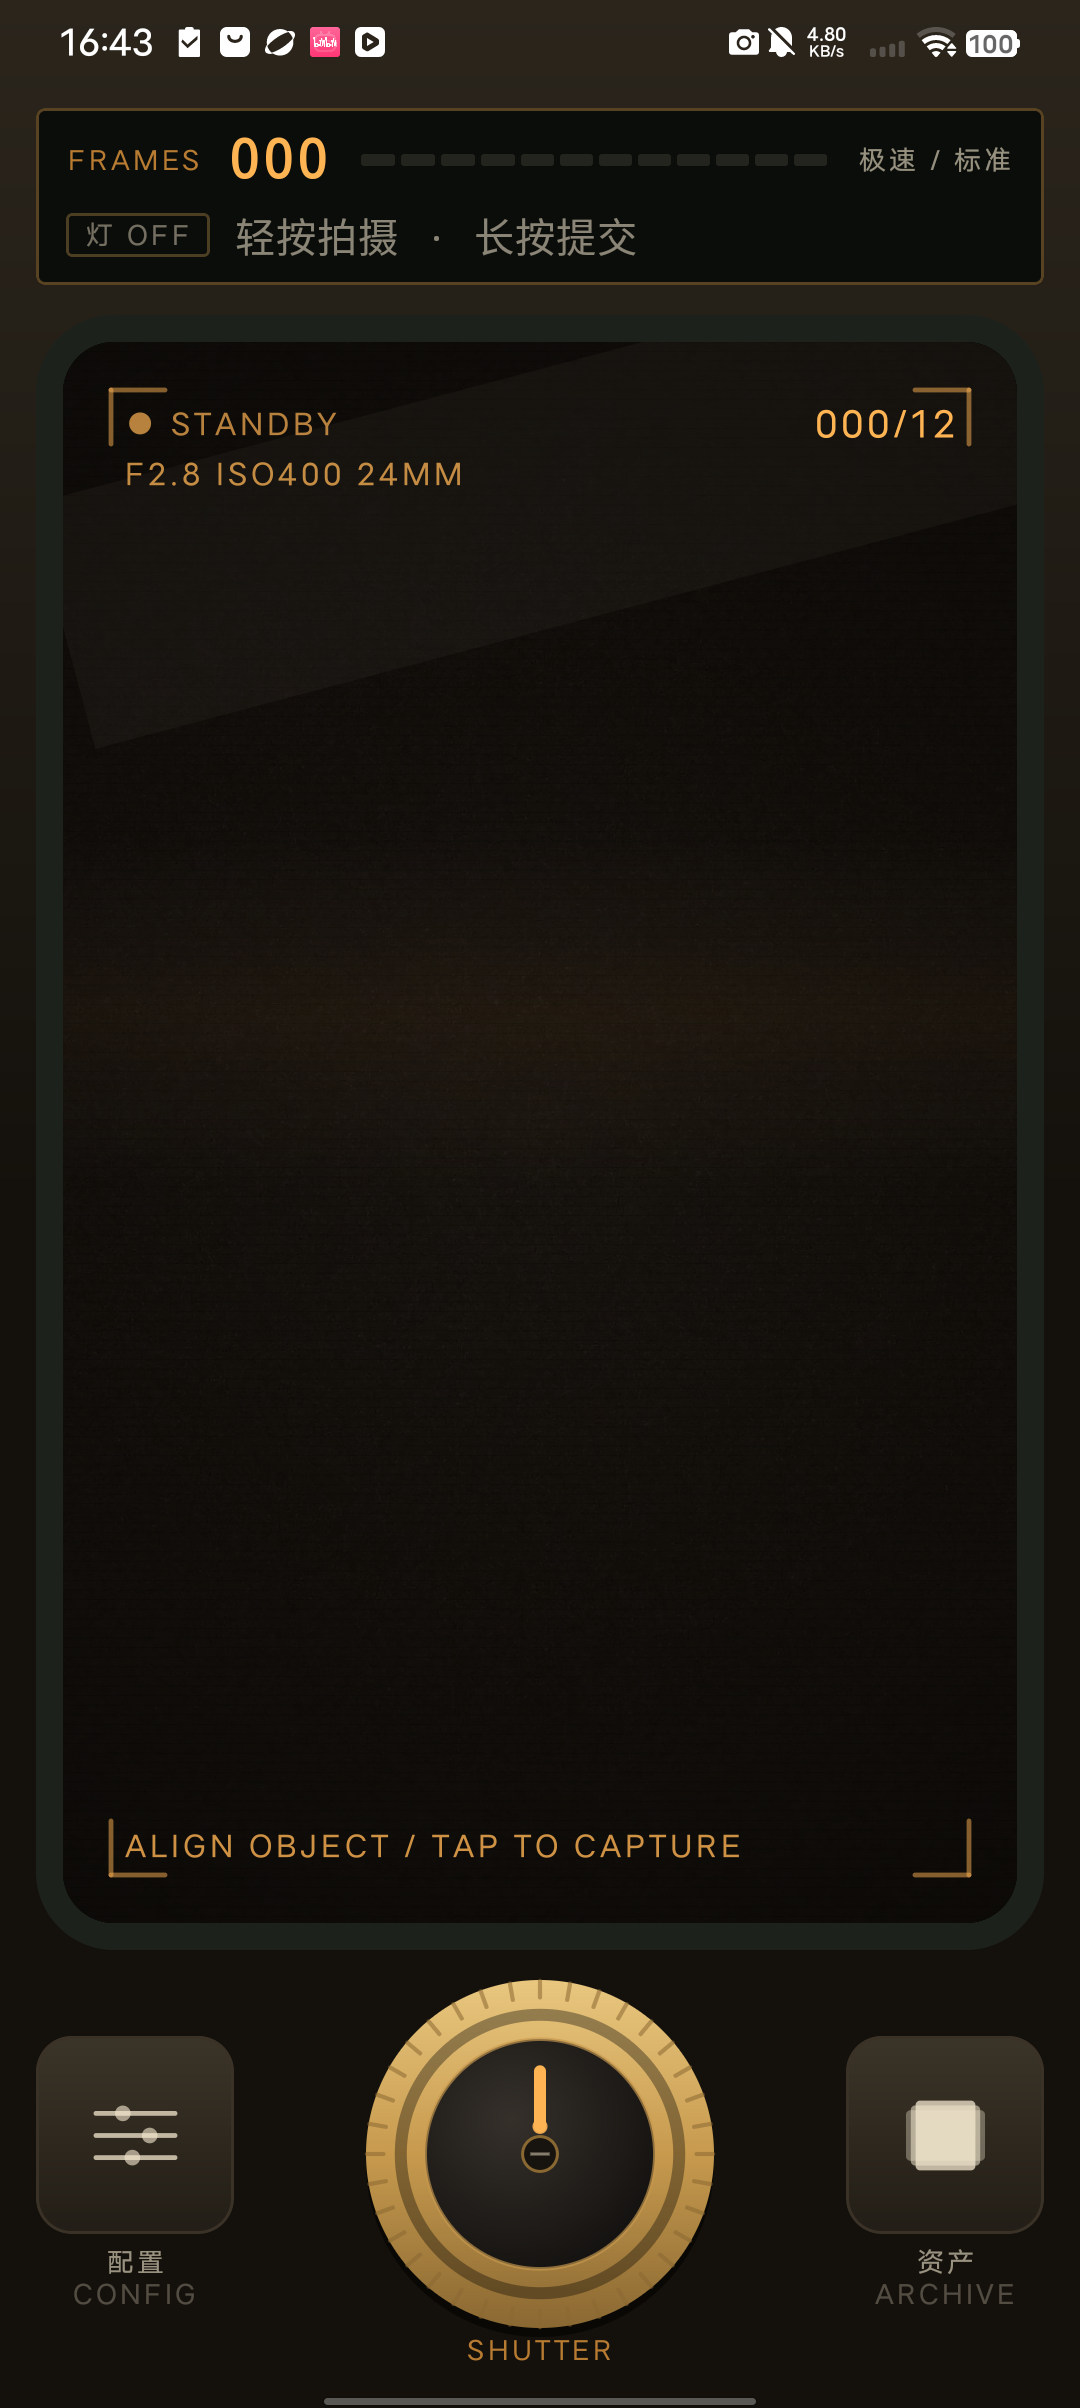
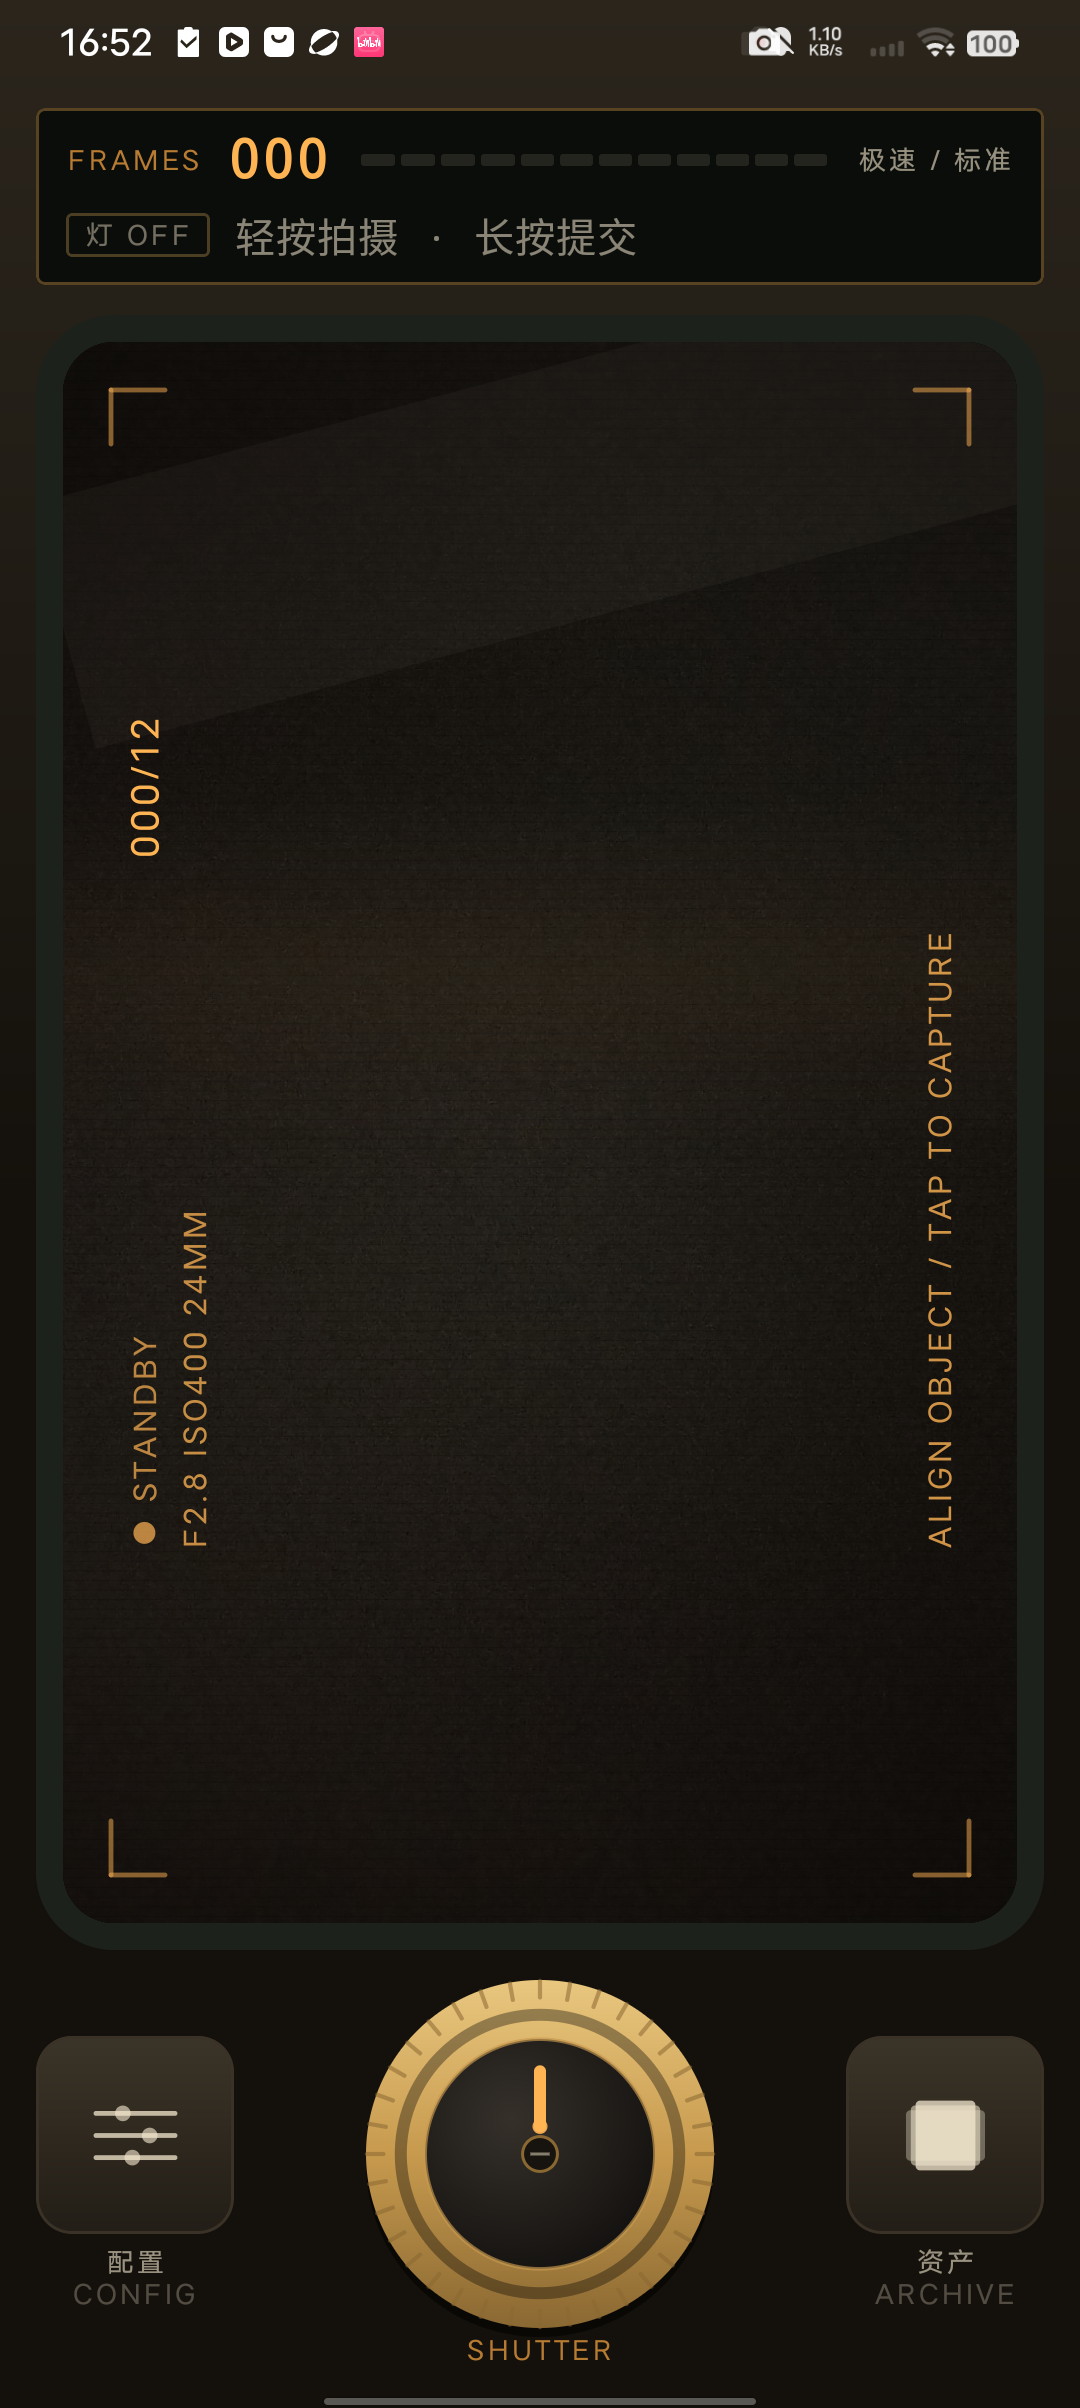
feat: 横屏改为机身不动、HUD 随姿态旋转
- 应用锁竖屏，横过来时整机布局与尺寸完全不变
- 重力传感器驱动取景 HUD 吸附到 0/90/180/270，读数始终朝上
- 移除横屏重排逻辑

diff --git a/app/src/main/java/com/shiwu/scan3d/ui/device/CrtScreen.kt b/app/src/main/java/com/shiwu/scan3d/ui/device/CrtScreen.kt
@@ -8,8 +8,11 @@ import androidx.compose.animation.core.rememberInfiniteTransition
 import androidx.compose.animation.core.tween
 import androidx.compose.foundation.Canvas
 import androidx.compose.foundation.background
+import androidx.compose.animation.core.animateFloatAsState
 import androidx.compose.foundation.layout.Box
 import androidx.compose.foundation.layout.BoxScope
+import androidx.compose.foundation.layout.BoxWithConstraints
+import androidx.compose.foundation.layout.size
 import androidx.compose.foundation.layout.Row
 import androidx.compose.foundation.layout.Spacer
 import androidx.compose.foundation.layout.fillMaxSize
@@ -28,6 +31,7 @@ import androidx.compose.ui.geometry.Size
 import androidx.compose.ui.graphics.Brush
 import androidx.compose.ui.graphics.Color
 import androidx.compose.ui.graphics.StrokeCap
+import androidx.compose.ui.graphics.graphicsLayer
 import androidx.compose.ui.unit.dp
 import androidx.compose.ui.unit.sp
 import com.shiwu.scan3d.ui.theme.Amber
@@ -48,6 +52,7 @@ fun CrtScreen(
     recording: Boolean = false,
     compact: Boolean = false,
     flash: Float = 0f,
+    hudRotation: Int = 0,
     content: @Composable BoxScope.() -> Unit
 ) {
     val transition = rememberInfiniteTransition(label = "crt")
@@ -134,66 +139,83 @@ fun CrtScreen(
                 bracket(size.width - m, size.height - m, -1f, -1f)
             }
 
-            // HUD
-            Box(
-                Modifier
-                    .fillMaxSize()
-                    .padding(if (compact) 15.dp else 20.dp)
-            ) {
-                Row(
+            // HUD：跟随机身姿态整体旋转，旋转后仍精确覆盖玻璃
+            val rot by animateFloatAsState(
+                targetValue = hudRotation.toFloat(),
+                animationSpec = tween(260),
+                label = "hudRotation"
+            )
+            BoxWithConstraints(Modifier.fillMaxSize()) {
+                val quarter = (Math.round(hudRotation / 90f) % 2) != 0
+                val boxW = if (quarter) maxHeight else maxWidth
+                val boxH = if (quarter) maxWidth else maxHeight
+                Box(
                     Modifier
-                        .align(Alignment.TopStart)
-                        .fillMaxWidth(),
-                    verticalAlignment = Alignment.CenterVertically
+                        .align(Alignment.Center)
+                        .size(boxW, boxH)
+                        .graphicsLayer { rotationZ = rot }
                 ) {
-                    if (recording) {
-                        Box(
+                    Box(
+                        Modifier
+                            .fillMaxSize()
+                            .padding(if (compact) 15.dp else 20.dp)
+                    ) {
+                        Row(
                             Modifier
-                                .clip(RoundedCornerShape(2.dp))
-                                .background(SignalRed.copy(alpha = recBlink))
-                                .padding(horizontal = 5.dp, vertical = 1.dp)
+                                .align(Alignment.TopStart)
+                                .fillMaxWidth(),
+                            verticalAlignment = Alignment.CenterVertically
                         ) {
+                            if (recording) {
+                                Box(
+                                    Modifier
+                                        .clip(RoundedCornerShape(2.dp))
+                                        .background(SignalRed.copy(alpha = recBlink))
+                                        .padding(horizontal = 5.dp, vertical = 1.dp)
+                                ) {
+                                    Text(
+                                        "REC",
+                                        style = MaterialTheme.typography.labelSmall,
+                                        color = Cream,
+                                        fontSize = 9.sp
+                                    )
+                                }
+                            } else {
+                                Text(
+                                    "● STANDBY",
+                                    style = MaterialTheme.typography.labelSmall,
+                                    color = Amber.copy(alpha = 0.7f),
+                                    fontSize = 9.sp
+                                )
+                            }
+                            Spacer(Modifier.weight(1f))
                             Text(
-                                "REC",
+                                hudRight,
                                 style = MaterialTheme.typography.labelSmall,
-                                color = Cream,
-                                fontSize = 9.sp
+                                color = Amber,
+                                fontSize = if (compact) 10.sp else 11.sp
                             )
                         }
-                    } else {
+
+                        if (hudLeft.isNotBlank()) {
+                            Text(
+                                hudLeft,
+                                style = MaterialTheme.typography.labelSmall,
+                                color = Amber.copy(alpha = 0.75f),
+                                fontSize = 9.sp,
+                                modifier = Modifier.align(Alignment.TopStart).padding(top = 18.dp)
+                            )
+                        }
+
                         Text(
-                            "\u25CF STANDBY",
+                            hudBottom,
                             style = MaterialTheme.typography.labelSmall,
-                            color = Amber.copy(alpha = 0.7f),
-                            fontSize = 9.sp
+                            color = Amber.copy(alpha = 0.8f),
+                            fontSize = 9.sp,
+                            modifier = Modifier.align(Alignment.BottomStart)
                         )
                     }
-                    Spacer(Modifier.weight(1f))
-                    Text(
-                        hudRight,
-                        style = MaterialTheme.typography.labelSmall,
-                        color = Amber,
-                        fontSize = if (compact) 10.sp else 11.sp
-                    )
                 }
-
-                if (hudLeft.isNotBlank()) {
-                    Text(
-                        hudLeft,
-                        style = MaterialTheme.typography.labelSmall,
-                        color = Amber.copy(alpha = 0.75f),
-                        fontSize = 9.sp,
-                        modifier = Modifier.align(Alignment.TopStart).padding(top = 18.dp)
-                    )
-                }
-
-                Text(
-                    hudBottom,
-                    style = MaterialTheme.typography.labelSmall,
-                    color = Amber.copy(alpha = 0.8f),
-                    fontSize = 9.sp,
-                    modifier = Modifier.align(Alignment.BottomStart)
-                )
             }
 
             // 快门闪白

diff --git a/app/src/main/java/com/shiwu/scan3d/ui/device/DeviceScreen.kt b/app/src/main/java/com/shiwu/scan3d/ui/device/DeviceScreen.kt
@@ -1,7 +1,12 @@
 package com.shiwu.scan3d.ui.device
 
 import android.Manifest
+import android.content.Context
 import android.content.pm.PackageManager
+import android.hardware.Sensor
+import android.hardware.SensorEvent
+import android.hardware.SensorEventListener
+import android.hardware.SensorManager
 import androidx.activity.compose.BackHandler
 import androidx.activity.compose.rememberLauncherForActivityResult
 import androidx.activity.result.contract.ActivityResultContracts
@@ -43,8 +48,10 @@ import androidx.compose.material3.SnackbarHost
 import androidx.compose.material3.SnackbarHostState
 import androidx.compose.material3.Text
 import androidx.compose.runtime.Composable
+import androidx.compose.runtime.DisposableEffect
 import androidx.compose.runtime.LaunchedEffect
 import androidx.compose.runtime.getValue
+import androidx.compose.runtime.mutableIntStateOf
 import androidx.compose.runtime.mutableStateOf
 import androidx.compose.runtime.remember
 import androidx.compose.runtime.rememberCoroutineScope
@@ -194,6 +201,7 @@ fun DeviceScreen(vm: DeviceViewModel) {
             .background(Brush.verticalGradient(listOf(ShellTop, ShellBottom, ShellBottom)))
     ) {
         val landscape = maxWidth > maxHeight
+        val hudRotation = rememberHudRotation()
 
         val viewfinder: @Composable (Modifier, Boolean) -> Unit = { mod, compact ->
             CrtScreen(
@@ -210,7 +218,8 @@ fun DeviceScreen(vm: DeviceViewModel) {
                 },
                 recording = state.frames.isNotEmpty() && state.mode == DeviceMode.LIVE,
                 compact = compact,
-                flash = flash.value
+                flash = flash.value,
+                hudRotation = hudRotation
             ) {
                 if (hasCamera) {
                     CameraPreview(
@@ -721,4 +730,42 @@ private fun ApiKeyDialog(initial: String, onDismiss: () -> Unit, onSave: (String
             }
         }
     }
+}
+
+/**
+ * 机身姿态：返回 HUD 需要旋转的角度（0 / 90 / 180 / 270）。
+ * 应用锁竖屏，屏幕内容不动，只有取景 HUD 跟着机身转，保证用户看到的方向是正的。
+ */
+@Composable
+private fun rememberHudRotation(): Int {
+    val context = LocalContext.current
+    var angle by remember { mutableIntStateOf(0) }
+
+    DisposableEffect(Unit) {
+        val sm = context.getSystemService(Context.SENSOR_SERVICE) as? SensorManager
+        val sensor = sm?.getDefaultSensor(Sensor.TYPE_ACCELEROMETER)
+        var smoothX = 0f
+        var smoothY = 9.81f
+        val listener = object : SensorEventListener {
+            override fun onSensorChanged(event: SensorEvent) {
+                if (event.sensor.type != Sensor.TYPE_ACCELEROMETER) return
+                smoothX = smoothX * 0.82f + event.values[0] * 0.18f
+                smoothY = smoothY * 0.82f + event.values[1] * 0.18f
+                val deg = Math.toDegrees(
+                    kotlin.math.atan2(smoothX.toDouble(), smoothY.toDouble())
+                ).toFloat()
+                val snapped = (Math.round(deg / 90f) * 90).toInt()
+                if (snapped != angle) angle = snapped
+            }
+
+            override fun onAccuracyChanged(sensor: Sensor?, accuracy: Int) = Unit
+        }
+        if (sm != null && sensor != null) {
+            sm.registerListener(listener, sensor, SensorManager.SENSOR_DELAY_UI)
+        }
+        onDispose {
+            if (sm != null) sm.unregisterListener(listener)
+        }
+    }
+    return angle
 }
